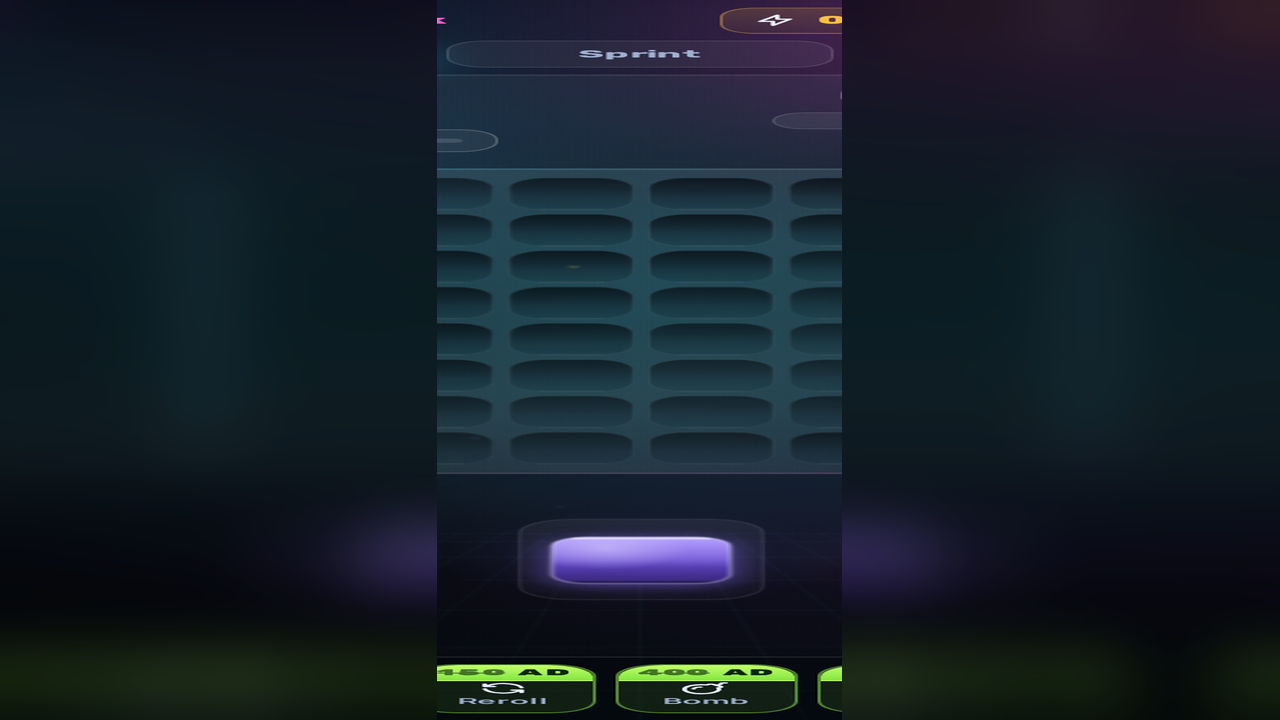
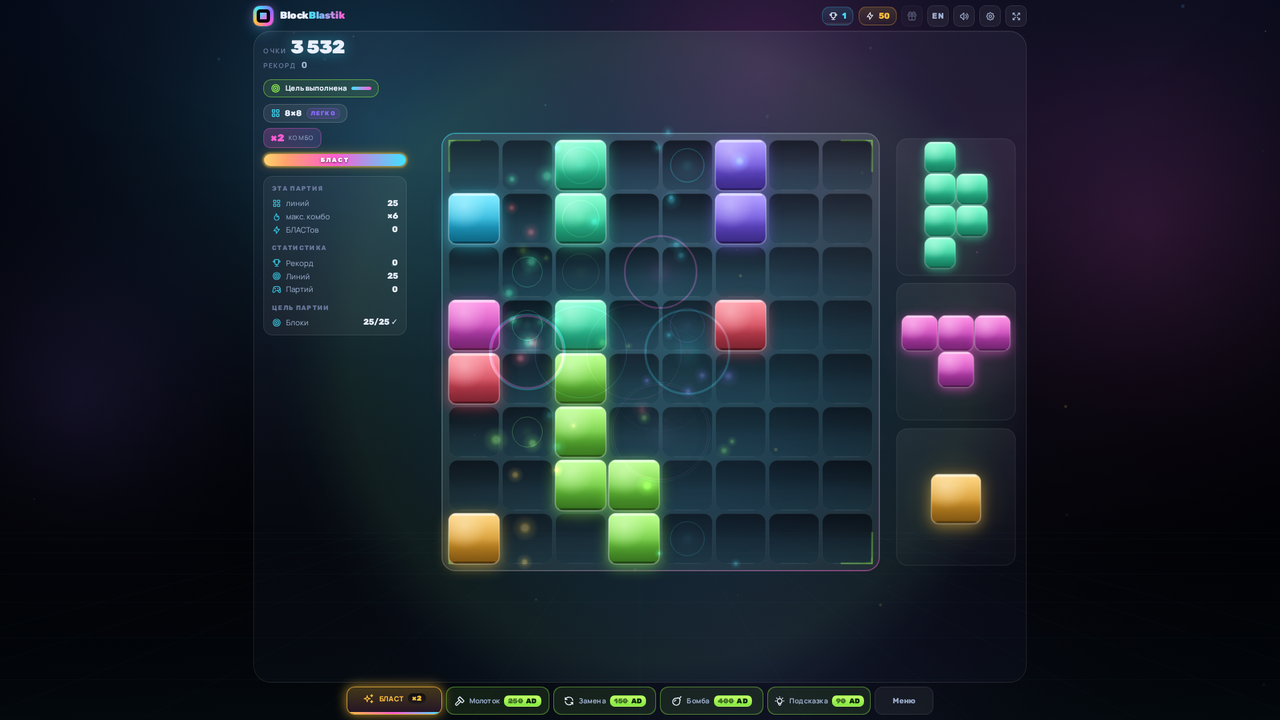
pay pages (result/success/fail) + fresh Block Blastik screenshots

diff --git a/pay/result.html b/pay/result.html
@@ -1,0 +1,28 @@
+<!doctype html><html lang="ru"><head><meta charset="utf-8">
+<meta name="viewport" content="width=device-width,initial-scale=1">
+<title>Результат оплаты — Wizzle Forge Games</title>
+<meta name="robots" content="noindex">
+<link rel="stylesheet" href="pay.css"></head>
+<body class="wait"><div class="box">
+<div class="mark">?</div><h1 id="t">Проверяем платёж…</h1>
+<p id="d">Robokassa вернула результат оплаты ниже.</p>
+<table id="kv"></table>
+<a class="btn alt" href="/" >На сайт игр</a>
+<small>Wizzle Forge Games</small>
+</div>
+<script>
+(function(){
+  var q=new URLSearchParams(location.search), o={};
+  q.forEach(function(v,k){o[k]=v});
+  var ok = o.OutcomeID==='10' || o.OutcomeID===undefined && /success/i.test(location.pathname);
+  var rows=['InvId','OutSum','PaymentMethod','OutcomeID','IntId','Email'].filter(function(k){return o[k]!==undefined});
+  var t=document.getElementById('kv');
+  rows.forEach(function(k){var tr=document.createElement('tr');tr.innerHTML='<td>'+k+'</td><td>'+String(o[k]).slice(0,80)+'</td>';t.appendChild(tr)});
+  try{localStorage.setItem('wz_pay', JSON.stringify({t:Date.now(),q:o}));}catch(e){}
+  document.body.className = ok?'ok':'bad';
+  document.querySelector('.mark').textContent = ok?'✓':'✕';
+  document.getElementById('t').textContent = ok?'Оплата прошла':'Оплата не прошла';
+  document.getElementById('d').textContent = ok?'Спасибо! Бонусы появятся в игре в течение минуты.':'Платёж отклонён — деньги не списаны, попробуй ещё раз.';
+  try{ if(window.parent&&window.parent!==window) window.parent.postMessage({wzpay:ok,q:o},'*'); }catch(e){}
+})();
+</script></body></html>

diff --git a/pay/pay.css b/pay/pay.css
@@ -1,0 +1,16 @@
+:root{--bg:#0e1020;--card:#171a2e;--ink:#eef0ff;--mut:#a9b0d0;--ok:#3ddc97;--bad:#ff5a5f}
+*{box-sizing:border-box}
+body{margin:0;background:radial-gradient(900px 400px at 50% -100px,#24294d 0%,var(--bg) 70%) var(--bg);color:var(--ink);font:16px/1.55 system-ui,-apple-system,"Segoe UI",Roboto,sans-serif;display:grid;place-items:center;min-height:100vh}
+.box{max-width:520px;width:calc(100% - 32px);background:var(--card);border-radius:18px;padding:26px 22px;box-shadow:0 14px 40px rgba(0,0,0,.45);text-align:center}
+.mark{width:64px;height:64px;border-radius:50%;display:grid;place-items:center;margin:0 auto 14px;font-size:30px;font-weight:800}
+.ok .mark{background:rgba(61,220,151,.15);color:var(--ok)}
+.bad .mark{background:rgba(255,90,95,.15);color:var(--bad)}
+.wait .mark{background:rgba(255,179,71,.15);color:#ffb347}
+h1{margin:0 0 8px;font-size:24px}
+p{color:var(--mut);margin:0 0 14px}
+table{width:100%;border-collapse:collapse;font-size:14px;margin:0 0 16px;text-align:left}
+td{padding:6px 8px;border-bottom:1px solid #232748;color:var(--mut)}
+td:last-child{color:var(--ink);text-align:right;word-break:break-all}
+a.btn{display:inline-block;padding:11px 20px;border-radius:12px;background:var(--ok);color:#0c2016;font-weight:700;text-decoration:none;margin:4px}
+a.alt{background:#2a2f55;color:var(--ink)}
+small{color:#7d84a8}

diff --git a/pay/fail.html b/pay/fail.html
@@ -1,0 +1,19 @@
+<!doctype html><html lang="ru"><head><meta charset="utf-8">
+<meta name="viewport" content="width=device-width,initial-scale=1">
+<title>Оплата не прошла — Wizzle Forge Games</title>
+<meta name="robots" content="noindex">
+<link rel="stylesheet" href="pay.css"></head>
+<body class="bad"><div class="box">
+<div class="mark">✕</div><h1>Оплата не прошла</h1>
+<p>Деньги не списаны. Проверь данные карты и попробуй ещё раз — или выбери другой способ оплаты.</p>
+<table id="kv"></table>
+<a class="btn" href="/">Вернуться в игру</a>
+<small>Wizzle Forge Games</small>
+</div>
+<script>
+(function(){var q=new URLSearchParams(location.search),o={};q.forEach(function(v,k){o[k]=v});
+try{localStorage.setItem('wz_pay',JSON.stringify({t:Date.now(),ok:false,q:o}));}catch(e){}
+var t=document.getElementById('kv');
+['InvId','OutSum','ErrorCode','PaymentMethod'].forEach(function(k){if(o[k]===undefined)return;var tr=document.createElement('tr');tr.innerHTML='<td>'+k+'</td><td>'+String(o[k]).slice(0,80)+'</td>';t.appendChild(tr)});
+try{if(window.parent&&window.parent!==window)window.parent.postMessage({wzpay:false,q:o},'*');}catch(e){}})();
+</script></body></html>

diff --git a/pay/success.html b/pay/success.html
@@ -1,0 +1,19 @@
+<!doctype html><html lang="ru"><head><meta charset="utf-8">
+<meta name="viewport" content="width=device-width,initial-scale=1">
+<title>Оплата прошла — Wizzle Forge Games</title>
+<meta name="robots" content="noindex">
+<link rel="stylesheet" href="pay.css"></head>
+<body class="ok"><div class="box">
+<div class="mark">✓</div><h1>Оплата прошла</h1>
+<p>Спасибо за покупку! Награды появятся в игре в течение минуты.</p>
+<table id="kv"></table>
+<a class="btn" href="/">Играть дальше</a>
+<small>Wizzle Forge Games</small>
+</div>
+<script>
+(function(){var q=new URLSearchParams(location.search),o={};q.forEach(function(v,k){o[k]=v});
+try{localStorage.setItem('wz_pay',JSON.stringify({t:Date.now(),ok:true,q:o}));}catch(e){}
+var t=document.getElementById('kv');
+['InvId','OutSum','PaymentMethod'].forEach(function(k){if(o[k]===undefined)return;var tr=document.createElement('tr');tr.innerHTML='<td>'+k+'</td><td>'+String(o[k]).slice(0,80)+'</td>';t.appendChild(tr)});
+try{if(window.parent&&window.parent!==window)window.parent.postMessage({wzpay:true,q:o},'*');}catch(e){}})();
+</script></body></html>

diff --git a/blockblastik.html b/blockblastik.html
@@ -30,6 +30,8 @@
   <section class="shots">
     <figure><img src="screenshots/blockblastik-gameplay.png" alt="Block Blastik: Блоки в ряд — геймплей"><figcaption>Скриншот: Block Blastik: Блоки в ряд</figcaption></figure>
     <figure><img src="screenshots/blockblastik-menu.png" alt="Block Blastik: Блоки в ряд — меню"><figcaption>Скриншот: Block Blastik: Блоки в ряд</figcaption></figure>
+    <figure><img src="screenshots/blockblastik-play2.png" alt="Block Blastik: фигуры на поле 8 на 8"><figcaption>Скриншот: фигуры на поле 8×8</figcaption></figure>
+    <figure><img src="screenshots/blockblastik-play3.png" alt="Block Blastik: заполненные линии исчезают"><figcaption>Скриншот: заполненные линии исчезают</figcaption></figure>
   </section>
 
   <section>
